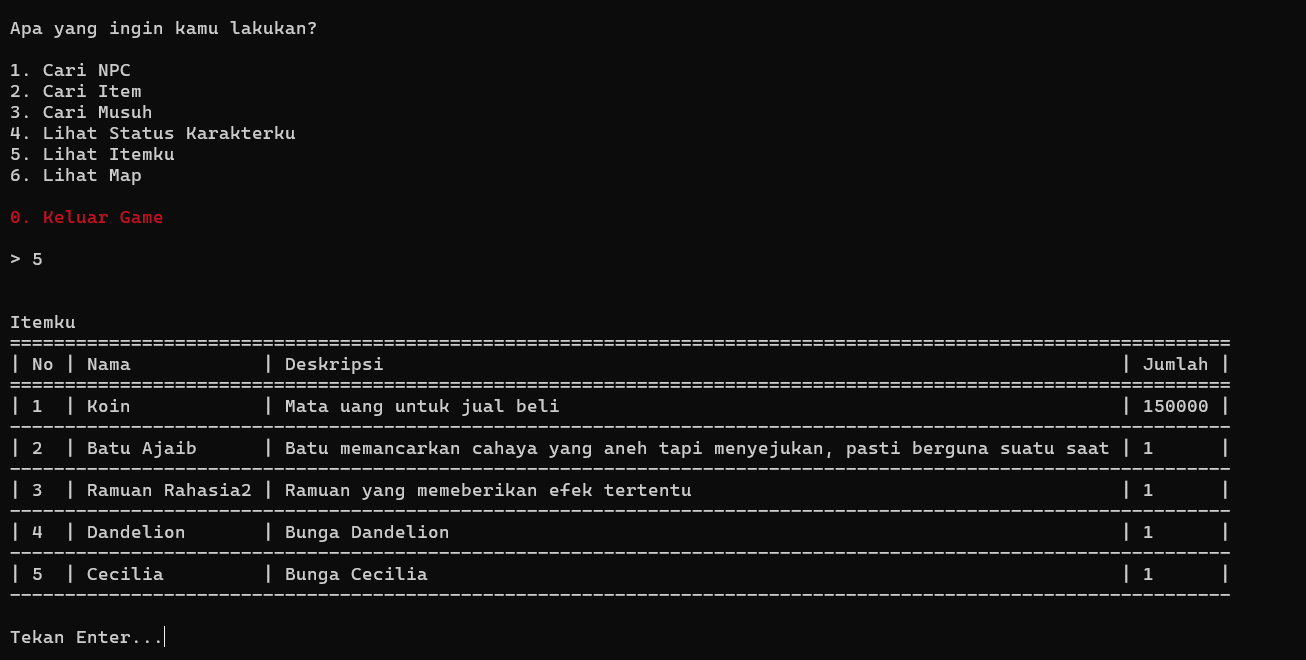
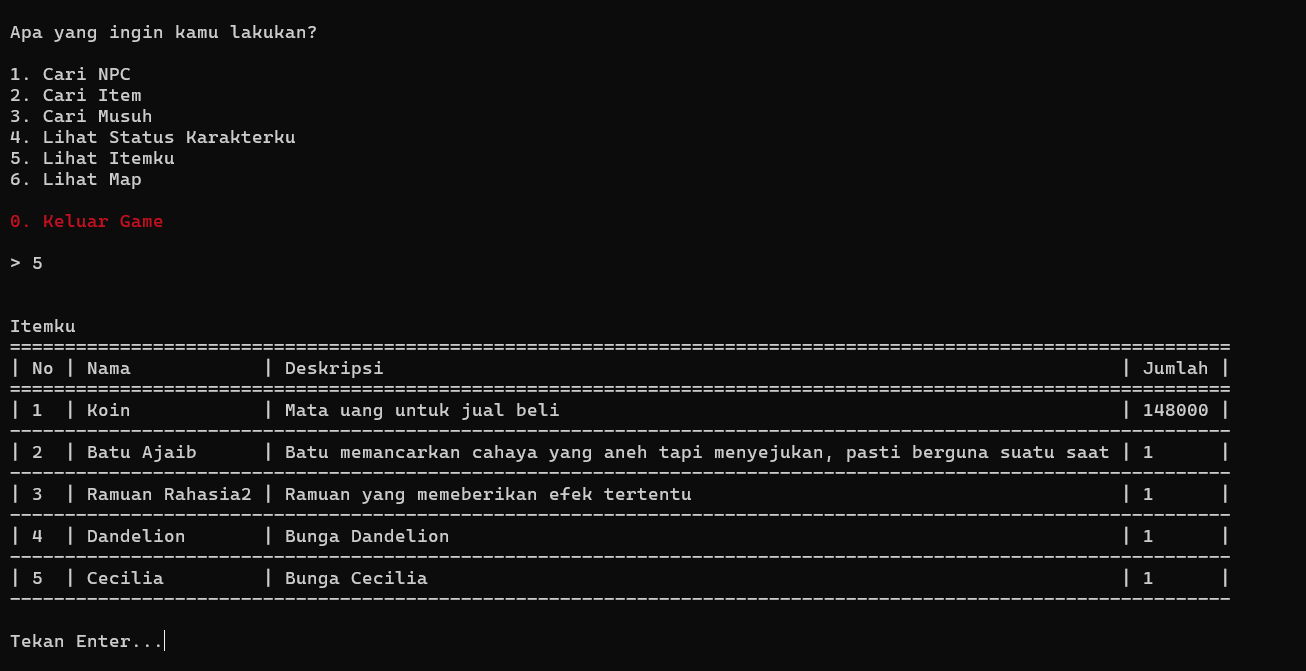
fix

diff --git a/program/Main.py b/program/Main.py
@@ -25,28 +25,28 @@ init()
 
 # Siapkan data------------------------\
 # Data status
-statusDPS = Status(1, 1000, 100, 500, 800)
-statusSupport = Status(1, 1000, 100, 200, 1000)
-statusHealer = Status(1, 1800, 100, 100, 600)
-statusEnemy1 = Status(5, 1500, 100, 800, 1000)
+statusDPS = Status("ST001", 1, 1000, 100, 500, 800)
+statusSupport = Status("ST002", 1, 1000, 100, 200, 1000)
+statusHealer = Status("ST003", 1, 1800, 100, 100, 600)
+statusEnemy1 = Status("ST004", 5, 1500, 100, 800, 1000)
 
 # Data senjata
 listSenjata = []
-listSenjata.append(Senjata("Pedang", "Dull Blade", 560, "ATK", 35))
-listSenjata.append(Senjata("Panah", "Aqua Simularca", 580, "DEF", 35))
-listSenjata.append(Senjata("Tombak", "Engulfing Lightning", 580, "ATK", 45))
-listSenjata.append(Senjata("Tongkat Sihir", "Everlasting Moonglow", 580, "Max HP", 55))
+listSenjata.append(Senjata("SJT001", "Pedang", "Dull Blade", 560, "ATK", 35))
+listSenjata.append(Senjata("SJT002", "Panah", "Aqua Simularca", 580, "DEF", 35))
+listSenjata.append(Senjata("SJT003", "Tombak", "Engulfing Lightning", 580, "ATK", 45))
+listSenjata.append(Senjata("SJT004", "Tongkat Sihir", "Everlasting Moonglow", 580, "Max HP", 55))
 
 # Data Skill
 listSkillDPS = []
 listSkillHealer = []
 listSkillSupport = []
-terjanganEs = Skill("Terjangan ES", 240, "Menerbangkan bunga es ke arah musuh, Mengakibatkan DMG sebesar 240% ATK", 10)
-bolaApi = Skill("Bola Api", 240, "Menembakkan bola api ke arah musuh, Mengakibatkan DMG sebesar 240% ATK", 10)
+terjanganEs = Skill("SKL001", "Terjangan ES", 240, "Menerbangkan bunga es ke arah musuh, Mengakibatkan DMG sebesar 240% ATK", 10)
+bolaApi = Skill("SKL002", "Bola Api", 240, "Menembakkan bola api ke arah musuh, Mengakibatkan DMG sebesar 240% ATK", 10)
 listSkillDPS.append(terjanganEs)
 listSkillDPS.append(bolaApi)
-listSkillHealer.append(Skill("Kelopak Bunga", 20, "Mengeluarkan kelopak bunga raksasa, Memulihkan HP pemilik skill dan rekan tim sebesar 20% Max HP", 15))
-listSkillSupport.append(Skill("Penempa Baja", 12, "Mengeluarkan Palu penempa, Meningkatkan ATK rekan tim sebesar 12% ATK pengguna", 20))
+listSkillHealer.append(Skill("SKL003", "Kelopak Bunga", 20, "Mengeluarkan kelopak bunga raksasa, Memulihkan HP pemilik skill dan rekan tim sebesar 20% Max HP", 15))
+listSkillSupport.append(Skill("SKL004", "Penempa Baja", 12, "Mengeluarkan Palu penempa, Meningkatkan ATK rekan tim sebesar 12% ATK pengguna", 20))
 
 # Data Item
 item01 = Item("IT0001", "Koin", "Mata uang untuk jual beli", 100000)
@@ -76,13 +76,13 @@ listHadiahK2 = []
 listHadiahK1.append(item21)
 listHadiahK1.append(item22)
 listHadiahK2.append(item23)
-misi1 = Misi("Sang Putri Berkelana", "Mengawal Putri dari Kerajaan Belobog ke kerajaan Penacony", listHadiahK1)
-misi2 = Misi("Bandit Jembatan Meresahkan", "Kalahkan bandit yang ada di jembatan", listHadiahK2)
+misi1 = Misi("MSI001", "Sang Putri Berkelana", "Mengawal Putri dari Kerajaan Belobog ke kerajaan Penacony", listHadiahK1)
+misi2 = Misi("MSI002", "Bandit Jembatan Meresahkan", "Kalahkan bandit yang ada di jembatan", listHadiahK2)
 
 listMisiK = []
 listMisiK.append(misi1)
 listMisiK.append(misi2)
-Khatarine1 = NiceNPC("Khatarine", "Resepsionis Guild", listItemKhatarine, listMisiK)
+Khatarine1 = NiceNPC("NNPC01", "Khatarine", "Resepsionis Guild", listItemKhatarine, listMisiK)
 
 # Data item dan NPC di wilayah
 listItemMondo = []
@@ -98,13 +98,13 @@ listNiceNPCMondo.append(Khatarine1)
 dropItemEnemy1 = []
 dropItemEnemy1.append(item23)
 dropItemEnemy1.append(item24)
-enemyBolobog1 = EnemyNPC("Gordon", "Penjaga Gua", statusEnemy1, terjanganEs, dropItemEnemy1)
+enemyBolobog1 = EnemyNPC("ENPC01", "Gordon", "Penjaga Gua", statusEnemy1, terjanganEs, dropItemEnemy1)
 listEnemyNPCBolobog = []
 listEnemyNPCBolobog.append(enemyBolobog1)
 
 # Wilayah
-mondo = Wilayah("Mondo", "Ini Merupakan kota awal bagi para petualang pemula.", listItemMondo, listNiceNPCMondo)
-bolobog = Wilayah("Bolobog", "Kota yang sudah diselimuti es selama ratusan tahun", listItemBolobog, enemyNpc=listEnemyNPCBolobog)
+mondo = Wilayah("WLY001", "Mondo", "Ini Merupakan kota awal bagi para petualang pemula.", listItemMondo, listNiceNPCMondo)
+bolobog = Wilayah("WLY002", "Bolobog", "Kota yang sudah diselimuti es selama ratusan tahun", listItemBolobog, enemyNpc=listEnemyNPCBolobog)
 
 listWilayah = []
 listWilayah.append(mondo)
@@ -134,6 +134,7 @@ time.sleep(0.5)
 karakter1 = PlayerKarakter()
 # Nama karakter
 namaKar = str(input("Nama Karakter : "))
+karakter1.set_id("PK001")
 karakter1.set_nama(namaKar)
 # Gender Karakter
 gender = 0
@@ -610,24 +611,35 @@ while(aksi != exit):
                                     print("[[Masukan tidak valid]]")
                                     print("")
                                 else:
-                                    temp = listWilayah[wilayah].get_niceNpc()[npc].get_item_dijual()[beli].get_jumlah()
-                                    listWilayah[wilayah].get_niceNpc()[npc].get_item_dijual()[beli].set_jumlah(temp-1)
-                                    item_dibeli = Item()
-                                    item_dibeli.set_idItem(listWilayah[wilayah].get_niceNpc()[npc].get_item_dijual()[beli].get_idItem())
-                                    item_dibeli.set_nama(listWilayah[wilayah].get_niceNpc()[npc].get_item_dijual()[beli].get_nama())
-                                    item_dibeli.set_deskripsi(listWilayah[wilayah].get_niceNpc()[npc].get_item_dijual()[beli].get_deskripsi())
-                                    item_dibeli.set_jumlah(1)
-                                    karakter1.tambah_item(item_dibeli)
-                                    
-                                    print("")
-                                    selamatitem = "1 item telah dibeli!"
-                                    namaitem = listWilayah[wilayah].get_niceNpc()[npc].get_item_dijual()[beli].get_nama()
-                                    isiNotif = [selamatitem, namaitem]
-                                    notif.buat_tabel_notif(2, isiNotif, 0)
-                                    print("")
+                                    temp = listWilayah[wilayah].get_niceNpc()[npc].get_item_dijual()[beli].get_harga()
+                                    uangku = karakter1.get_item()[0].get_jumlah()
 
-                                    if(listWilayah[wilayah].get_niceNpc()[npc].get_item_dijual()[beli].get_jumlah() == 0):
-                                        listWilayah[wilayah].get_niceNpc()[npc].get_item_dijual()[beli].set_status(1)
+                                    if(uangku == 0 or uangku < temp):
+                                        print("")
+                                        print("Uangku tidak cukup!!!")
+                                        print("")
+                                    else:
+                                        karakter1.get_item()[0].set_jumlah(uangku-temp)
+
+                                        temp = listWilayah[wilayah].get_niceNpc()[npc].get_item_dijual()[beli].get_jumlah()
+                                        listWilayah[wilayah].get_niceNpc()[npc].get_item_dijual()[beli].set_jumlah(temp-1)
+                                        item_dibeli = Item()
+                                        item_dibeli.set_idItem(listWilayah[wilayah].get_niceNpc()[npc].get_item_dijual()[beli].get_idItem())
+                                        item_dibeli.set_nama(listWilayah[wilayah].get_niceNpc()[npc].get_item_dijual()[beli].get_nama())
+                                        item_dibeli.set_deskripsi(listWilayah[wilayah].get_niceNpc()[npc].get_item_dijual()[beli].get_deskripsi())
+                                        item_dibeli.set_jumlah(1)
+                                        karakter1.tambah_item(item_dibeli)
+
+                                        
+                                        print("")
+                                        selamatitem = "1 item telah dibeli!"
+                                        namaitem = listWilayah[wilayah].get_niceNpc()[npc].get_item_dijual()[beli].get_nama()
+                                        isiNotif = [selamatitem, namaitem]
+                                        notif.buat_tabel_notif(2, isiNotif, 0)
+                                        print("")
+
+                                        if(listWilayah[wilayah].get_niceNpc()[npc].get_item_dijual()[beli].get_jumlah() == 0):
+                                            listWilayah[wilayah].get_niceNpc()[npc].get_item_dijual()[beli].set_status(1)
 
                                 input("Tekan Enter...")
                                 print("")

diff --git a/program/Senjata.py b/program/Senjata.py
@@ -1,6 +1,7 @@
 # Kelas Senjata yang dimiliki Karakter
 class Senjata:
-    def __init__(self, tipe="", nama="", kenaikanAtk=0, statBonus="", kenaikanStatBonus=0):
+    def __init__(self, id="", tipe="", nama="", kenaikanAtk=0, statBonus="", kenaikanStatBonus=0):
+        self.__id = id
         self.__tipe = tipe
         self.__nama = nama
         self.__kenaikanAtk = kenaikanAtk             #Jumlah peningkatan ATK, setiap senjata pasti menaikan ATK
@@ -8,6 +9,9 @@ class Senjata:
         self.__kenaikanStatBonus = kenaikanStatBonus #Jumlah peningkatan stat bonus
 
     # Getter
+    def get_id(self):
+        return self.__id
+    
     def get_tipe(self):
         return self.__tipe
 
@@ -24,6 +28,9 @@ class Senjata:
         return self.__kenaikanStatBonus
 
     # Setter
+    def set_id(self, id):
+        self.__id = id
+
     def set_tipe(self, tipe):
         self.__tipe = tipe
 

diff --git a/program/Skill.py b/program/Skill.py
@@ -1,12 +1,16 @@
 # Kelas Skill
 class Skill:
-    def __init__(self, nama="", efek=0, deskripsiEfek="", cooldown=0):
+    def __init__(self, id, nama="", efek=0, deskripsiEfek="", cooldown=0):
+        self.__id = id
         self.__nama = nama
         self.__efek = efek                      #Jumlah efek yang diberikan
         self.__deskripsiEfek = deskripsiEfek
         self.__cooldown = cooldown              #Skill hanya dapat dilakukan setiap berapa detik sekali
 
     # Setter
+    def set_id(self, id):
+        self.__id = id
+
     def set_nama(self, nama):
         self.__nama = nama
     
@@ -20,6 +24,9 @@ class Skill:
         self.__cooldown = cooldown
 
     # Getter
+    def get_id(self):
+        return self.__id
+    
     def get_nama(self):
         return self.__nama
 

diff --git a/program/PlayerKarakter.py b/program/PlayerKarakter.py
@@ -3,7 +3,8 @@ from Senjata import Senjata
 import time
 # Kelas Karakter yang dimiliki player
 class PlayerKarakter:
-    def __init__(self, nama="", gender='', role="", status = "", senjata="", skill="", item=[]):
+    def __init__(self, id="", nama="", gender='', role="", status = "", senjata="", skill="", item=[]):
+        self.__id = id
         self.__nama = nama
         self.__gender = gender
         self.__role = role          #Role (DPS/Support/Healer)
@@ -13,6 +14,12 @@ class PlayerKarakter:
         self.__item = item          #Item yang dibawa Karakter   
 
     # Getter dan setter untuk setiap atribut
+    def set_id(self, id):
+        self.__id = id
+
+    def get_id(self):
+        return self.__id
+    
     def set_nama(self, nama):
         self.__nama = nama
 

diff --git a/program/Status.py b/program/Status.py
@@ -1,6 +1,7 @@
 # Kelas Status
 class Status:
-    def __init__(self, level=0, maxHP=0, hp=0, atk=0, defense=0):
+    def __init__(self, id="", level=0, maxHP=0, hp=0, atk=0, defense=0):
+        self.__id = id
         self.__level = level
         self.__maxHP = maxHP
         self.__hp = hp              # HP yang dimiliki saat ini, % dari max HP
@@ -8,6 +9,9 @@ class Status:
         self.__defense = defense
 
     # Setter
+    def set_id(self, id):
+        self.__id = id
+
     def set_level(self, level):
         self.__level = level
     
@@ -24,6 +28,9 @@ class Status:
         self.__defense = defense
 
     # Getter
+    def get_id(self):
+        return self.__id
+    
     def get_level(self):
         return self.__level
     

diff --git a/program/Misi.py b/program/Misi.py
@@ -2,12 +2,20 @@ from Item import Item
 import time
 
 class Misi:
-    def __init__(self, nama, deskripsi, hadiah=[]):
+    def __init__(self, id="", nama="", deskripsi="", hadiah=[]):
+        self.__id = id
         self.__nama = nama
         self.__deskripsi = deskripsi
         self.__hadiah = hadiah          #Hadiah setelah menyelesaikan misi berupa list item
         self.__status = 0                      #Set default 0, artinya belum diselesaikan
 
+    # Getter dan setter untuk atribut id
+    def set_id(self, id):
+        self.__id = id
+
+    def get_id(self):
+        return self.__id
+    
     # Getter dan setter untuk atribut nama
     def set_nama(self, nama):
         self.__nama = nama

diff --git a/program/Wilayah.py b/program/Wilayah.py
@@ -1,6 +1,7 @@
 # Kelas Wilayah
 class Wilayah:
-    def __init__(self, nama="", deskripsi="", item=[], niceNpc=[], enemyNpc=[]):
+    def __init__(self, id="", nama="", deskripsi="", item=[], niceNpc=[], enemyNpc=[]):
+        self.__id = id
         self.__nama = nama
         self.__deskripsi = deskripsi
         self.__item = item
@@ -8,6 +9,12 @@ class Wilayah:
         self.__enemyNpc = enemyNpc
 
     # Setter dan Getter
+    def set_id(self, id):
+        self.__id = id
+
+    def get_id(self):
+        return self.__id
+    
     def set_nama(self, nama):
         self.__nama = nama
 

diff --git a/program/Npc.py b/program/Npc.py
@@ -1,11 +1,17 @@
+# Kelas NPC
 class Npc:
-    __nama = ""
-    __job = ""
-
-    def __init__(self, nama, job):
+    def __init__(self, id="", nama="", job=""):
+        self.__id = id
         self.__nama = nama
         self.__job = job
 
+    # Getter dan setter untuk atribut id
+    def set_id(self, id):
+        self.__id = id
+
+    def get_id(self):
+        return self.__id
+    
     # Getter dan setter untuk atribut nama
     def set_nama(self, nama):
         self.__nama = nama

diff --git a/program/EnemyNPC.py b/program/EnemyNPC.py
@@ -5,8 +5,8 @@ import time
 
 # Kelas untuk NPC yang bisa dilawan / musuh
 class EnemyNPC(Npc):
-    def __init__(self, nama="", job="", status="", skill="", dropItem=[]):
-        super().__init__(nama, job)
+    def __init__(self, id="", nama="", job="", status="", skill="", dropItem=[]):
+        super().__init__(id, nama, job)
         self.__status = status
         self.__skill = skill
         self.__dropItem = dropItem

diff --git a/program/NiceNPC.py b/program/NiceNPC.py
@@ -3,8 +3,8 @@ from Npc import Npc
 
 # Kelas NPC baik, dapat memberi misi dan atau menjual item
 class NiceNPC(Npc):
-    def __init__(self, nama="", job="", itemDijual = [], misi = []):
-        super().__init__(nama, job)
+    def __init__(self, id="", nama="", job="", itemDijual = [], misi = []):
+        super().__init__(id, nama, job)
         self.__itemDijual = itemDijual
         self.__misi = misi
 
